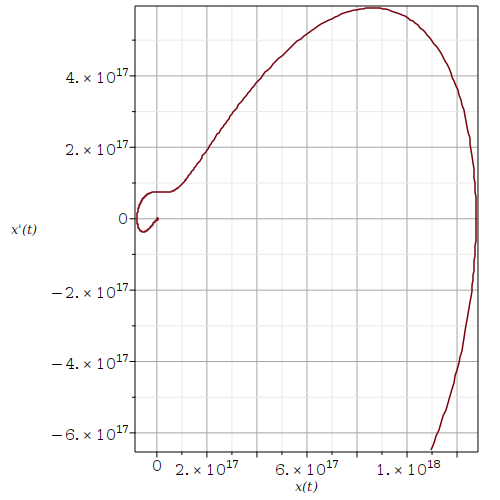
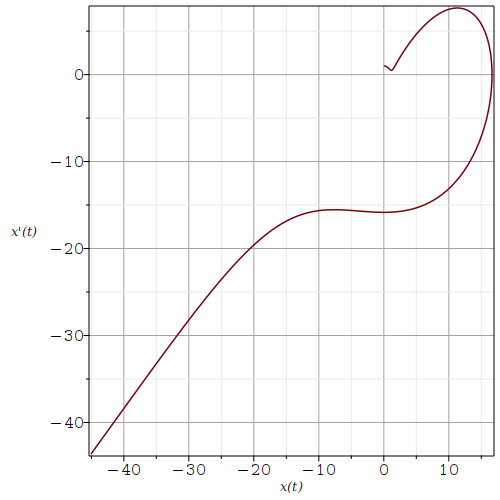
Correct some typos and change the figure Maple_Mathieu_3.png

Changed region(s): [[0.12, 0.0, 0.99, 0.99], [0.0, 0.45, 0.09, 0.48]]

diff --git a/math_stat/maple/ODE_O2_var_coeff_fr.html b/math_stat/maple/ODE_O2_var_coeff_fr.html
@@ -97,7 +97,7 @@ une solution en série de puissances de l'EDO de Mathieu </p>
 étudier cette fonction spéciale.  Alors, nous pouvons simplement
 demander à <em>Maple</em> de nous fournir une solution en série de
 puissances de l'EDO ci-dessus avec les conditions initiales \(x(0)=0\)
-e \(x'(0)=1\).</p>
+et \(x'(0)=1\).</p>
 
 <pre class="matlab">
 > <font class="matlab"> Order:=14; dsolve(ODEic,x(t),type='series'); </font>
@@ -123,7 +123,7 @@ la fonction <font class="matlab">dsolve()</font>.  Le niveau normal
 est 1.  Il peut aller jusqu'à 5.</p>
 
 <p>Puisque la solution en terme de la fonction de Mathieu ou la
-solution en série de puissances n'est pas une expression simple, nous
+solution en série de puissances ne sont pas des expressions simples, nous
 pouvons aussi bien résoudre numériquement l'EDO ci-dessus avec les
 conditions initiales \(x(0)=0\) et \(x'(0)=1\).</p>
 
@@ -136,7 +136,7 @@ xs := \text{proc}\left(x\_rkf45\right)...\text{end proc}
 \]
 
 <p>Si nous évaluons cette fonction à un point \(t=a\), nous obtenons
-alors la liste \(a, x(a) , x'(a) \) comme on peut voir ci-dessous.</p>
+alors la liste \(a, x(a) , x'(a) \) comme nous pouvons voir ci-dessous.</p>
 
 <pre class="matlab">
 > <font class="matlab">xs(2.5);</font>
@@ -187,9 +187,9 @@ comportement de \(x(t)\) et \(x'(t)\) lorsque \(t\) converges vers
 observez ce qui arrive aux graphes de \(x\) et \(x'\).</p>
 
 <p> Pour le reste de ce document, nous considérons deux EDO d'ordre
-deux avec des coefficients variables qui sont classiques: l'équation de
-Cauchy-Euler et l'équation de Bessel.  Il y en a bien d'autres mais
-ces deux EDO sont très importantes.</p> 
+deux avec des coefficients variables qui sont des examples classiques:
+l'équation de Cauchy-Euler et l'équation de Bessel.  Il y en a bien
+d'autres mais ces deux EDO sont très importantes.</p> 
 
 <h3> Équation de Cauchy-Euler </h3>
 
@@ -197,7 +197,7 @@ ces deux EDO sont très importantes.</p>
 \[
 x^2 y''(x) + b x y'(x) + c y(x)=0
 \]
-<p>où \(b\) et \(b\) sont des constantes.  Cette EDO est définie
+<p>où \(b\) et \(c\) sont des constantes.  Cette EDO est définie
 dans <em>Maple</em> de la façon suivante. </p>
 
 <pre class="matlab">
@@ -247,16 +247,16 @@ est une solution de cette EDO, alors
 \(x \mapsto y(x) = \tilde{y}(\ln(x))\) est une solution de
 l'équation de Cauchy-Euler.  L'équation indicielle de l'équation de 
 Cauchy-Euler est l'équation caractéristique de l'EDO linéaire
-d'ordre deux avec des coefficients constants.  Il en découle qu'il y a
-trois types de solutions pour l'équation de Cauchy-Euler comme c'est
-le cas pour l'EDO linéaire d'ordre deux avec des coefficients
-constants précédente.</p>
+d'ordre deux avec des coefficients constants précédente.  Il en
+découle qu'il y a trois types de solutions pour l'équation de
+Cauchy-Euler comme c'est le cas pour l'EDO linéaire d'ordre deux avec
+des coefficients constants précédente.</p>
 
 <ul>
 <li> \(\displaystyle y(x) = c_1 x^{r_1} + c_2 x^{r_2}\) si l'équation
 indicielle possède deux racines réelles distinctes, \(r_1\) et \(r_2\). </li>
 <li> \(\displaystyle y(x) = c_1 x^r + c_2 x^r \ln(x)\) si l'équation
-indicielle possère une seule racine réelle, \(r\).</li>
+indicielle possède une seule racine réelle, \(r\).</li>
 <li> \(\displaystyle y(x) = c_1 x^a \cos(b\ln(x)) + c_2 x^a \sin(b\ln(x))\) si
 l'équation indicielle possède une paire de racines complexes conjuguées,
 \(a \pm b i\) avec \(b \neq 0\).</li>
@@ -334,7 +334,7 @@ y(x) = \_C1 x+ \_C2 x \ln(x)
 \]
 
 <p>Si nous résolvons l'équation de Cauchy-Euler avec les mêmes
-conditions aux limites que précédemment, Nous obtenons la solution
+conditions aux limites que précédemment, nous obtenons la solution
 suivante.</p>
 
 <pre class="matlab">
@@ -346,7 +346,7 @@ y(x) = x - \frac{x \ln(x)}{3 \ln(3)}
 \]
 
 <p>Ainsi, nous avons que \(c_1 = 1\) et
-\(\displaystyle c_2 = (3\ln(3)^{-1}\).</p>
+\(\displaystyle c_2 = -(3\ln(3)^{-1}\).</p>
 
 <h3> Équation de Bessel </h3>
 
@@ -367,7 +367,7 @@ eq5 := x^2 \left( \frac{\text{d}^2}{\text{d} x^2} y(x) \right)
 \]
 
 <p>L'<em>équation indicielle</em> pour l'équation de Bessel est
-s \(r^2-p^2 =0\).  Nous ne présenterons pas la théorie qui conduit à
+\(r^2-p^2 =0\).  Nous ne présenterons pas la théorie qui conduit à
 cette équation indicielle mais nous allons seulement mentionner que
 les solutions en séries de puissances sont requises pour déduire cette
 équation indicielle.  L'équation indicielle a deux racines réelles
@@ -383,7 +383,7 @@ ci-dessous.</p>
 \]
 
 <p><font class="matlab">BesselJ(p,x)</font> est la fonction de Bessel
-de première espèce d'ordre \(p\), et
+de première espèce d'ordre \(p\) et
 <font class="matlab">BesselY(p,x)</font> est la fonction de Bessel de
 deuxième espèce d'ordre \(p\).  Les fonctions de Bessel de première
 espèce peut être exprimées en série de puissance à l'origine.  Ce n'est
@@ -392,7 +392,7 @@ est une singularité pour les fonctions de Bessel de deuxième espèce.</p>
 
 <p>Nous pouvons utiliser <em>Maple</em> pour obtenir les premiers
 termes de la série de puissance de la fonction de Bessel de première
-espèce d'ordre \(0)\ à l'origine.</p>
+espèce d'ordre \(0\) à l'origine.</p>
 
 <pre class="matlab">
 > <font class="matlab">taylor(BesselJ(0,x),x=0,8);</font>

diff --git a/math_stat/maple/ODE_O2_var_coeff_en.html b/math_stat/maple/ODE_O2_var_coeff_en.html
@@ -243,10 +243,10 @@ substitution \(\displaystyle x = e^t\).  If \(t \mapsto \tilde{y}(t)\)
 is a solution of this ODE, then \(x \mapsto y(x)= \tilde{y}(\ln(x))\)
 is a solution for the Cauchy-Euler equation.  The indicial equation of
 the Cauchy-Euler equation is the characteristic equation for the
-second order linear ODE with constant coefficients.  It therefore
+second order linear ODE with constant coefficients above.  It therefore
 follows that there are three types of solutions for the Cauchy-Euler
-equation as it is so for the previous second order linear ODE with
-constant coefficients.</p> 
+equation as it is so for the second order linear ODE with
+constant coefficients above.</p> 
 
 <ul>
 <li> \(\displaystyle y(x) = c_1 x^{r_1} + c_2 x^{r_2}\) if the
@@ -338,7 +338,7 @@ conditions than before, we get the following solution.</p>
 y(x) = x - \frac{x \ln(x)}{3 \ln(3)}
 \]
 
-<p>Hence, we have \(c_1 = 1\) and \(\displaystyle c_2 = (3\ln(3)^{-1}\).</p>
+<p>Hence, we have \(c_1 = 1\) and \(\displaystyle c_2 = -(3\ln(3)^{-1}\).</p>
 
 <h3> Bessel Equation </h3>
 
@@ -373,7 +373,7 @@ when \(p \neq 0\).  The general solution is given below.</p>
 \]
 
 <p><font class="matlab">BesselJ(p,x)</font> is the Bessel function of
-the first kind of order \(p\), and
+the first kind of order \(p\) and
 <font class="matlab">BesselY(p,x)</font> is the Bessel function of the
 second kind of order \(p\).  The Bessel functions of the first kind can
 be expressed as a power series at the origin but the Bessel
@@ -382,7 +382,7 @@ the Bessel functions of the second kind.</p>
 
 <p>We can use <em>Maple</em> to get the first terms of the power
 series expansion of the Bessel function of the first king of order
-<font class="matlab">0</font> at the origin.</p>
+\(0\) at the origin.</p>
 
 <pre class="matlab">
 > <font class="matlab">taylor(BesselJ(0,x),x=0,8);</font>
